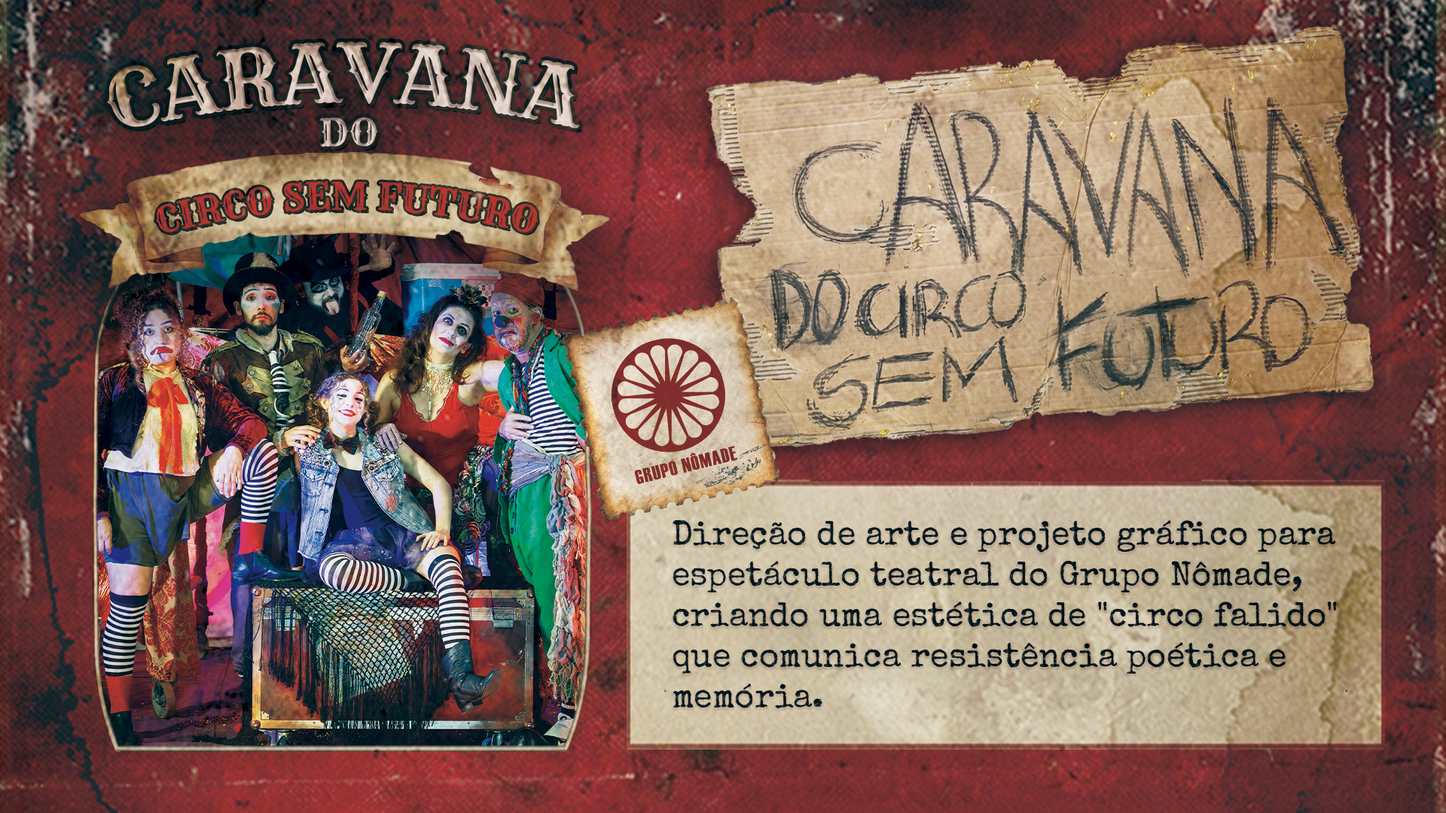
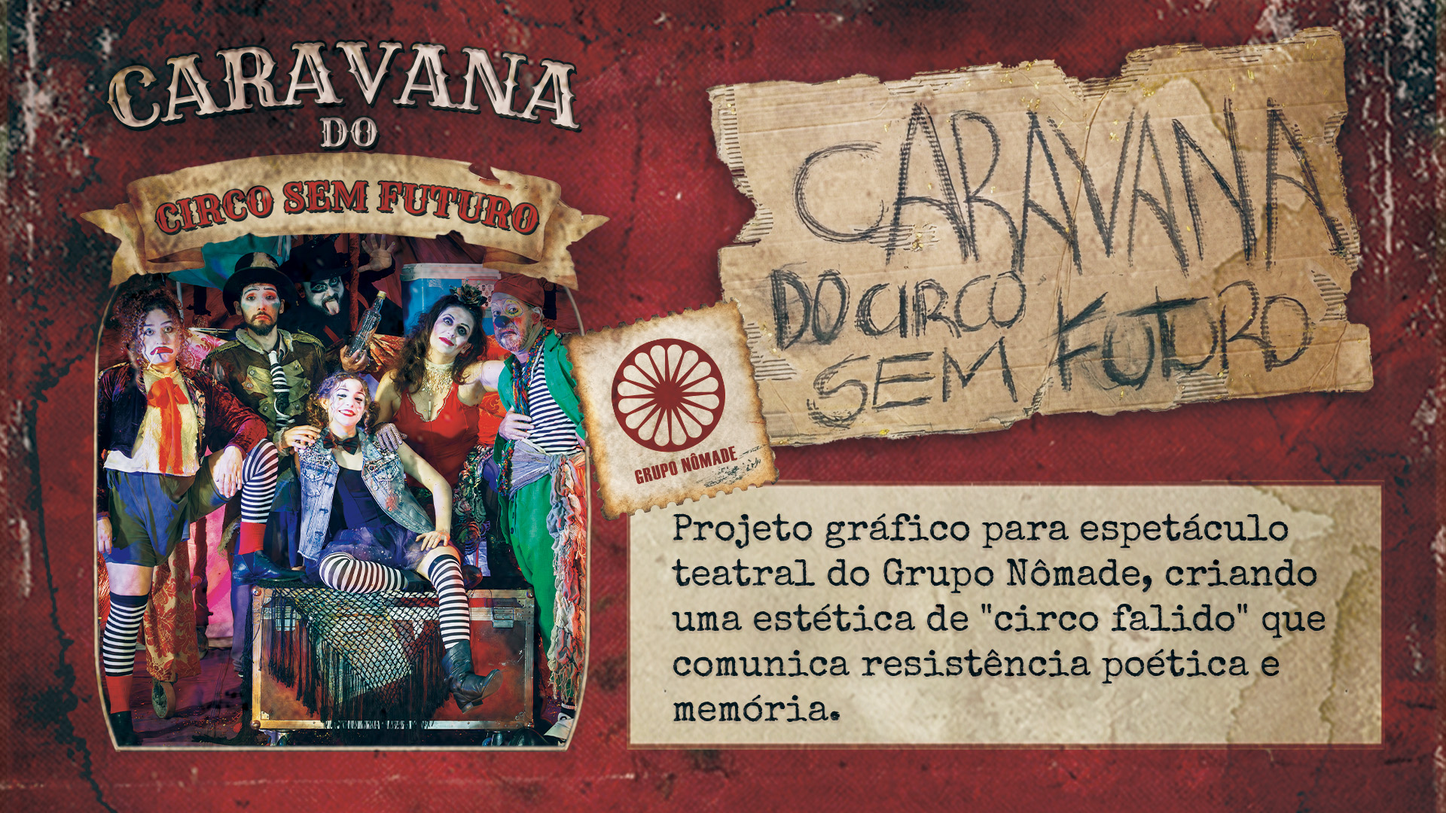
Atualização e finalização de projeto circo

diff --git a/cases/grupo-nomade/caravana-do-circo-sem-futuro/caravana-do-circo-sem-futuro.html b/cases/grupo-nomade/caravana-do-circo-sem-futuro/caravana-do-circo-sem-futuro.html
@@ -30,20 +30,20 @@
 
   <main class="wrap">
     <div class="case-hero reveal">
-      <span class="case-code">// CASE_03 — DESIGN GRÁFICO · BRANDING · EDITORIAL</span>
+      <span class="case-code">// CASE_03 — DESIGN GRÁFICO</span>
       <h1>Caravana do Circo sem Futuro</h1>
-      <p class="desc">Identidade visual para espetáculo do Grupo Nômade, desenvolvida para traduzir a beleza da ruína, a teatralidade do circo abandonado e a dignidade de artistas à deriva.</p>
+      <p class="desc">Identidade visual para espetáculo do Grupo Nômade, desenvolvida para traduzir a beleza da ruína, a teatralidade do circo abandonado e de artistas à deriva.</p>
 
       <div class="top-note reveal">
         <span>// CONCEITO</span>
-        <p>“Beleza na ruína” como linguagem: uma estética que honra o desgaste, a memória e a teatralidade sem perder o cuidado visual.</p>
+        <p>“Beleza na ruína” como linguagem: uma estética que mescla o desgaste, a memória e a teatralidade cirsense.</p>
       </div>
 
       <div class="meta-grid" aria-label="Dados do projeto">
         <div class="meta-cell">CLIENTE<b>GRUPO NÔMATE</b></div>
-        <div class="meta-cell">PAPEL<b>ART DIRECTION · GRÁFICO</b></div>
+        <div class="meta-cell">PAPEL<b>DESIGN GRÁFICO</b></div>
         <div class="meta-cell">ANO<b>2025</b></div>
-        <div class="meta-cell">TIPO<b class="project">CASE</b></div>
+        <div class="meta-cell">TIPO<b class="project">PROJETO</b></div>
       </div>
     </div>
 
@@ -55,24 +55,16 @@
     <section class="block reveal">
       <span class="block-code">// SEC_A</span>
       <h2>O contexto e o desafio</h2>
-      <p>O <b>Grupo Nômate</b> precisava de uma identidade visual para o espetáculo <b>Caravana do Circo sem Futuro</b>, uma peça sobre artistas circenses à deriva performando em um circo abandonado. O desafio era traduzir visualmente o conceito de “beleza na ruína” sem cair no clichê de circo vintage genérico ou em uma linguagem descuidada.</p>
-      <p>A estética precisava equilibrar <b>nostalgia sem melancolia</b>, <b>precariedade sem pobreza visual</b>, <b>teatralidade sem perfeição</b> e <b>decadência com dignidade</b>. A solução foi construir um sistema visual que parecesse cuidado estético, mas vivo, marcado pela ação do tempo, do sol, do vento e da natureza.</p>
-
-      <div class="media-frame gallery-trigger" data-full="../../../assets/imagens/grupo-nomade/caravana-do-circo-sem-futuro/capa-circo-sem-futuro.jpg" tabindex="0" role="button" aria-label="Abrir capa do projeto">
-        <img src="../../../assets/imagens/grupo-nomade/caravana-do-circo-sem-futuro/capa-circo-sem-futuro.jpg" alt="Capa do projeto Caravana do Circo sem Futuro">
-        <span class="mf-hud"><span>CAPA // PROJETO</span><span class="r">REC ●</span></span>
-      </div>
-    </section>
+      <p>O <b>Grupo Nômate</b> precisava de uma identidade visual para o espetáculo <b>Caravana do Circo sem Futuro</b>, uma obra que retrata a trajetória de uma trupe de artistas miseráveis que percorre um Brasil marcado pelas desigualdades, sobrevivendo entre fracassos, sonhos e a insistência em continuar fazendo arte.</p>
+      <p>A estética precisava equilibrar <b>nostalgia</b>, <b>precariedade</b>, <b>teatralidade</b> e <b>decadência</b>. Definimos um caminho pelo a ideia de materiais arruinados que refletissem a passagem do tempo e a resiliência dos artistas ao assumirem para si a decadencia de seu próprio ofício.</p>
 
     <section class="block reveal">
       <span class="block-code">// SEC_B</span>
       <h2>Meu papel e escopo</h2>
       <p>Atuei em toda a direção de arte conceitual para o projeto, criando a identidade visual tanto do pôster principal quanto do sistema gráfico aplicado às redes sociais e ao programa de mão.</p>
       <ul>
-        <li>Direção de arte conceitual</li>
         <li>Projeto gráfico do pôster principal</li>
-        <li>Sistema visual para redes sociais</li>
-        <li>Programa de mão</li>
+        <li>Peças para redes sociais</li>
         <li>Definição de paleta cromática e tipografia</li>
         <li>Seleção e tratamento de texturas</li>
       </ul>
@@ -80,7 +72,6 @@
       <div class="tags" aria-label="Ferramentas e entregas do projeto">
         <span>PHOTOSHOP</span>
         <span>ILLUSTRATOR</span>
-        <span>BRANDING</span>
         <span>EDITORIAL</span>
         <span>POSTER</span>
       </div>
@@ -89,20 +80,19 @@
     <section class="block reveal">
       <span class="block-code">// SEC_C</span>
       <h2>Processo de design</h2>
-      <p>O processo foi pensado em fases para transformar o clichê do circo vintage em uma estética mais autêntica, crua e narrativamente forte. Em vez de reforçar a nostalgia polida, a ideia era revelar o desgaste, o abandono e a dignidade dos artistas que ainda resistem.</p>
-
+      <p>Primeiro busquei refrêrencias no circo vintage, pedido direto do cliente que tinham essa abordagem como idealização. Essa refêrencia em sim já reforçar a nostalgia, o desgaste, o abandono e a resistência de artistas itinerantes.</p>
       <div class="phase" data-phase="PHASE_01 // PESQUISA & DESCONSTRUÇÃO">
         <h3>Pesquisa e desconstrução do clichê</h3>
-        <p>Comecei estudando pôsteres de circo dos anos 20–30 e identificando seus elementos clássicos: molduras ornamentais, tipografia serifada, cores vibrantes e composição simétrica. Depois, perguntei: como subverter cada um desses elementos para comunicar decadência?</p>
-        <p>A resposta foi tratar cada detalhe como se estivesse “sofrendo”: molduras descascando, cores queimadas pelo sol, tipografia com falhas e bordas irregulares. Em vez de nostalgia vazia, a intenção era mostrar resistência e ferida.</p>
+        <p>Comecei estudando pôsteres de circo dos anos 20–30 e identificando seus elementos clássicos: molduras ornamentais, tipografia serifada, cores vibrantes e composição simétrica.</p>
+        <p>O cliente já tinha posteres separados das quais gostavam do layout. Então uni essas referências com a minha visão de como subverter cada elemento para comunicar decadência.</p>
 
         <div class="compare-grid">
-          <div class="media-frame gallery-trigger" data-full="../../../assets/imagens/grupo-nomade/caravana-do-circo-sem-futuro/flyer_base-v5.png" tabindex="0" role="button" aria-label="Abrir flyer principal do projeto">
-            <img src="../../../assets/imagens/grupo-nomade/caravana-do-circo-sem-futuro/flyer_base-v5.png" alt="Flyer principal do projeto Caravana do Circo sem Futuro">
+          <div class="media-frame gallery-trigger" data-full="../../../assets/imagens/grupo-nomade/caravana-do-circo-sem-futuro/referencia-01.jpg" tabindex="0" role="button" aria-label="Abrir flyer principal do projeto">
+            <img src="../../../assets/imagens/grupo-nomade/caravana-do-circo-sem-futuro/referencia-01.jpg" alt="Flyer principal do projeto Caravana do Circo sem Futuro">
             <span class="mf-hud"><span>ESTUDO // FLYER</span><span class="r">REC ●</span></span>
           </div>
-          <div class="media-frame gallery-trigger" data-full="../../../assets/imagens/grupo-nomade/caravana-do-circo-sem-futuro/flyer_base_oficina-v1.png" tabindex="0" role="button" aria-label="Abrir flyer de oficina do projeto">
-            <img src="../../../assets/imagens/grupo-nomade/caravana-do-circo-sem-futuro/flyer_base_oficina-v1.png" alt="Flyer de oficina do projeto Caravana do Circo sem Futuro">
+          <div class="media-frame gallery-trigger" data-full="../../../assets/imagens/grupo-nomade/caravana-do-circo-sem-futuro/referencia-02.jpg" tabindex="0" role="button" aria-label="Abrir flyer de oficina do projeto">
+            <img src="../../../assets/imagens/grupo-nomade/caravana-do-circo-sem-futuro/referencia-02.jpg" alt="Flyer de oficina do projeto Caravana do Circo sem Futuro">
             <span class="mf-hud"><span>ESTUDO // OFICINA</span><span class="r">REC ●</span></span>
           </div>
         </div>
@@ -110,23 +100,24 @@
 
       <div class="phase" data-phase="PHASE_02 // ESTÉTICA DA RUÍNA">
         <h3>Construção da estética da ruína</h3>
-        <p>Desenvolvi um sistema de texturas sobrepostas: papelão, tecido translúcido, manchas orgânicas e bordas rasgadas. Cada camada tinha uma função narrativa — o papelão representava a precariedade, o tecido a memória, as manchas o tempo, e as bordas ou desgaste o abandono inevitável.</p>
-        <p>Ao combinar esses elementos, consegui alcançar o equilíbrio delicado entre “cuidado estético” e “aparência abandonada”, sem perder legibilidade nem impacto visual.</p>
-
-        <div class="media-frame gallery-trigger" data-full="../../../assets/imagens/grupo-nomade/caravana-do-circo-sem-futuro/flyer_base-v5.png" tabindex="0" role="button" aria-label="Abrir detalhes visuais do projeto">
-          <img src="../../../assets/imagens/grupo-nomade/caravana-do-circo-sem-futuro/flyer_base-v5.png" alt="Detalhes da estética visual da ruína no projeto Caravana do Circo sem Futuro">
+        <p>Desenvolvi um sistema de texturas sobrepostas: papelão, tecido translúcido, manchas orgânicas e bordas rasgadas.</p>
+        <p>Ao combinar esses elementos, consegui alcançar o equilíbrio delicado entre “cuidado estético” e “aparência abandonada”, sem perder legibilidade nem impacto visual. Era importante para o cliente que fosse utilizada uma foto do espetáculo. Então houve também um trabalho de envelecimento e composição da foto com o sistema de texturas.</p>
+        <p>Na primeira versão, o cliente pensava em utilizar um elemento de cenário como título: uma papelão escrito o título da peça.</p>
+        <div class="media-frame gallery-trigger" data-full="../../../assets/imagens/grupo-nomade/caravana-do-circo-sem-futuro/versao-01-titulo.png" tabindex="0" role="button" aria-label="Abrir detalhes visuais do projeto">
+          <img src="../../../assets/imagens/grupo-nomade/caravana-do-circo-sem-futuro/versao-01-titulo.png" alt="Detalhes da estética visual da ruína no projeto Caravana do Circo sem Futuro">
           <span class="mf-hud"><span>TEXTURA // RUÍNA</span><span class="r">REC ●</span></span>
         </div>
       </div>
 
       <div class="phase" data-phase="PHASE_03 // TIPOGRAFIA COMO PERSONAGEM">
-        <h3>Tipografia como personagem</h3>
-        <p>As fontes não podiam ser apenas “velhas”: elas precisavam contar história. Escolhi serifadas clássicas e apliquei desgaste seletivo: algumas letras passaram a contar com partes faltando, bordas irregulares e texturas que sugerem tinta descascando conforme o tempo passa.</p>
-        <p>Essa estratégia transformou a tipografia em personagem, reforçando a narrativa da peça e aproximando a linguagem gráfica da temática do espetáculo.</p>
+        <h3>Tipografia</h3>
+        <p>Apesar da abordagem do título do palelão estar alinhada, percebi que a tipografia não dialogava em nada com a principal refência: o circo. Então busquei uma abordagem que incorporasse a essência do circo na tipografia. Escolhi a fonte Rye, que ficaria envelhecida de forma coesa com o resto do layout</p>
+        <p>Nas peças de redes sociais teriam informações de datas e endereços das apresentações. Utilizei a fonte "Special Elite", que complementava a estética geral do projeto.</p>
+        <p>Essa estratégia transformou a tipografia, reforçando a narrativa da peça e aproximando a linguagem gráfica da temática do espetáculo.</p>
 
-        <div class="media-frame gallery-trigger" data-full="../../../assets/imagens/grupo-nomade/caravana-do-circo-sem-futuro/flyer_base_oficina-v1.png" tabindex="0" role="button" aria-label="Abrir close-up da tipografia do projeto">
-          <img src="../../../assets/imagens/grupo-nomade/caravana-do-circo-sem-futuro/flyer_base_oficina-v1.png" alt="Close-up da tipografia do projeto Caravana do Circo sem Futuro">
-          <span class="mf-hud"><span>TIPOGRAFIA // PERSONAGEM</span><span class="r">REC ●</span></span>
+        <div class="media-frame gallery-trigger" data-full="../../../assets/imagens/grupo-nomade/caravana-do-circo-sem-futuro/circo-sem-futuro-tipografia.png" tabindex="0" role="button" aria-label="Abrir close-up da tipografia do projeto">
+          <img src="../../../assets/imagens/grupo-nomade/caravana-do-circo-sem-futuro/circo-sem-futuro-tipografia.png" alt="Close-up da tipografia do projeto Caravana do Circo sem Futuro">
+          <span class="mf-hud"><span>TIPOGRAFIA</span><span class="r">REC ●</span></span>
         </div>
       </div>
     </section>
@@ -134,16 +125,15 @@
     <section class="block reveal">
       <span class="block-code">// SEC_D</span>
       <h2>Design</h2>
-      <p>O sistema visual foi definido para funcionar em múltiplos contextos: cartaz principal, material de divulgação, programação e aplicação em redes sociais, sempre mantendo a mesma linguagem de ruína teatral e memória circular.</p>
+      <p>O sistema visual foi definido para funcionar em múltiplos contextos: cartaz principal, material de divulgação, programação e aplicação em redes sociais, sempre mantendo a mesma linguagem de ruína teatral circense.</p>
+      <p>Defini três cores básicas, com as quais inciava a estética do projeto, mas aos poucos usei variações das mesmas.</p>
 
       <div class="design-grid">
         <div class="panel">
           <h3>Paleta</h3>
           <div class="palette">
             <span style="background:#8B3A3A"><b>#8B3A3A</b><small>vermelho circo desbotado</small></span>
-            <span style="background:#6B7B4F"><b>#6B7B4F</b><small>verde musgo</small></span>
             <span style="background:#B8860B"><b>#B8860B</b><small>ocre queimado</small></span>
-            <span style="background:#6B4E71"><b>#6B4E71</b><small>roxo teatral</small></span>
             <span style="background:#C4B5A0"><b>#C4B5A0</b><small>bege papelão</small></span>
           </div>
         </div>
@@ -159,28 +149,23 @@
       <div class="panel accent-panel">
         <h3>Elementos gráficos</h3>
         <ul>
-          <li>Molduras de papelão rasgado</li>
-          <li>Listras de circo desbotadas e tortas</li>
-          <li>Manchas orgânicas estratégicas</li>
-          <li>Bordas irregulares em todos os elementos</li>
+          <li>Molduras vetorizada</li>
+          <li>Pergaminho e papeis desgastados</li>
+          <li>Manchas orgânicas</li>
+          <li>Bordas irregulares e rasgos</li>
         </ul>
       </div>
-
-      <div class="media-frame gallery-trigger" data-full="../../../assets/imagens/grupo-nomade/caravana-do-circo-sem-futuro/flyer_base-v5.png" tabindex="0" role="button" aria-label="Abrir beauty shot final do projeto">
-        <img src="../../../assets/imagens/grupo-nomade/caravana-do-circo-sem-futuro/flyer_base-v5.png" alt="Beauty shot do design final do projeto Caravana do Circo sem Futuro">
-        <span class="mf-hud"><span>DESIGN // BEAUTY_SHOT</span><span class="r">REC ●</span></span>
-      </div>
-    </section>
 
     <section class="block reveal">
       <span class="block-code">// SEC_E</span>
       <h2>Resultados — relato do cliente</h2>
-      <p>O cliente relatou que a identidade capturou exatamente o espírito da peça e conseguiu transmitir sua atmosfera sem cair em clichês. A linguagem visual foi percebida como forte, emocional e narrativa, sem perder a elegância do material gráfico.</p>
+      <p>O cliente relatou que a identidade capturou o espírito da peça e conseguiu transmitir sua atmosfera sem cair em clichês. A linguagem visual foi percebida como forte, emocional e narrativa, sem perder a elegância do material gráfico.</p>
+      <p>Foi também elogiada a forma como os arquivos foram organizados e estruturados, facilitando a implementação de informações e logos de apoios futuros.</p>
     </section>
 
     <section class="block reveal">
       <span class="block-code">// SEC_F</span>
-      <h2>Takeaways</h2>
+      <h2>Aprendizado</h2>
       <div class="takeaways">
         <div>
           <h3>1. Restrição gera criatividade</h3>
@@ -200,25 +185,18 @@
     <section class="block reveal">
       <span class="block-code">// SEC_G</span>
       <h2>Peças finais</h2>
-      <p>Apresento as peças em conjunto para visualizar a coerência da identidade em diferentes aplicações: cartaz principal, execução de oficina e variações de exposição de arte gráfica.</p>
     </section>
 
     <div class="grid-2 reveal">
-      <div class="media-frame gallery-trigger" data-full="../../../assets/imagens/grupo-nomade/caravana-do-circo-sem-futuro/capa-circo-sem-futuro.jpg" tabindex="0" role="button" aria-label="Abrir imagem da capa do projeto Caravana do Circo sem Futuro">
-        <img src="../../../assets/imagens/grupo-nomade/caravana-do-circo-sem-futuro/capa-circo-sem-futuro.jpg" alt="Capa principal da Caravana do Circo sem Futuro">
-        <span class="mf-hud"><span>PEÇA_01 // CAPA</span><span class="r">REC ●</span></span>
-      </div>
-
-      <div class="media-frame gallery-trigger" data-full="../../../assets/imagens/grupo-nomade/caravana-do-circo-sem-futuro/flyer_base-v5.png" tabindex="0" role="button" aria-label="Abrir imagem do flyer principal do projeto">
-        <img src="../../../assets/imagens/grupo-nomade/caravana-do-circo-sem-futuro/flyer_base-v5.png" alt="Flyer principal da Caravana do Circo sem Futuro">
-        <span class="mf-hud"><span>PEÇA_02 // FLYER</span><span class="r">REC ●</span></span>
+      <div class="media-frame gallery-trigger" data-full="../../../assets/imagens/grupo-nomade/caravana-do-circo-sem-futuro/flyer_base-v5.png" tabindex="0" role="button" aria-label="Abrir imagem da capa do projeto Caravana do Circo sem Futuro">
+        <img src="../../../assets/imagens/grupo-nomade/caravana-do-circo-sem-futuro/flyer_base-v5.png" alt="Capa principal da Caravana do Circo sem Futuro">
+        <span class="mf-hud"><span>PEÇA_01 // DIVULGAÇÃO DE ESPETÁCULO</span><span class="r">REC ●</span></span>
       </div>
 
       <div class="media-frame gallery-trigger" data-full="../../../assets/imagens/grupo-nomade/caravana-do-circo-sem-futuro/flyer_base_oficina-v1.png" tabindex="0" role="button" aria-label="Abrir imagem do flyer de oficina do projeto">
         <img src="../../../assets/imagens/grupo-nomade/caravana-do-circo-sem-futuro/flyer_base_oficina-v1.png" alt="Flyer de oficina da Caravana do Circo sem Futuro">
-        <span class="mf-hud"><span>PEÇA_03 // OFICINA</span><span class="r">REC ●</span></span>
+        <span class="mf-hud"><span>PEÇA_02 // DIVULGAÇÃO DE OFICINA</span><span class="r">REC ●</span></span>
       </div>
-    </div>
 
     <div class="gallery-modal" id="designModal" aria-hidden="true">
       <div class="gallery-modal-panel">
@@ -233,14 +211,13 @@
 
     <div class="case-nav reveal" aria-label="Navegação de casos">
       <a href="../../../index.html#projetos"><span>// BACK</span><b>Voltar aos cases</b></a>
-      <a href="../../../index.html#contato" class="next"><span>// CONTATO</span><b>Falar com Lucas</b></a>
     </div>
   </main>
 
   <footer>
     <div class="wrap footer-wrap">
       <a class="cta" href="../../../index.html#projetos">VER TODOS OS CASES</a>
-      <span class="info">CARAVANA DO CIRCO SEM FUTURO // RUÍNA · TEATRO · MEMÓRIA</span>
+      <span class="info">CARAVANA DO CIRCO SEM FUTURO</span>
     </div>
   </footer>
 
